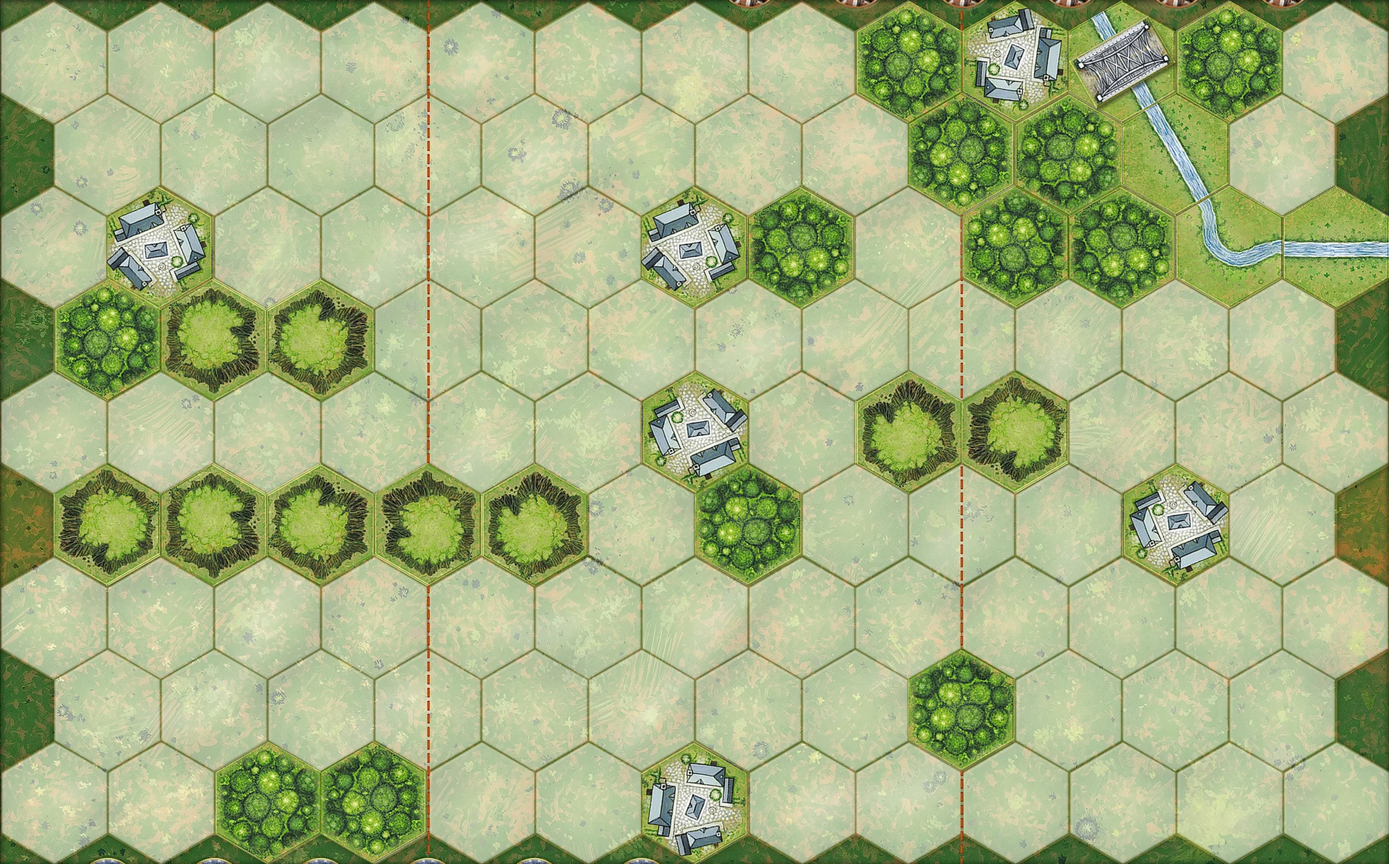
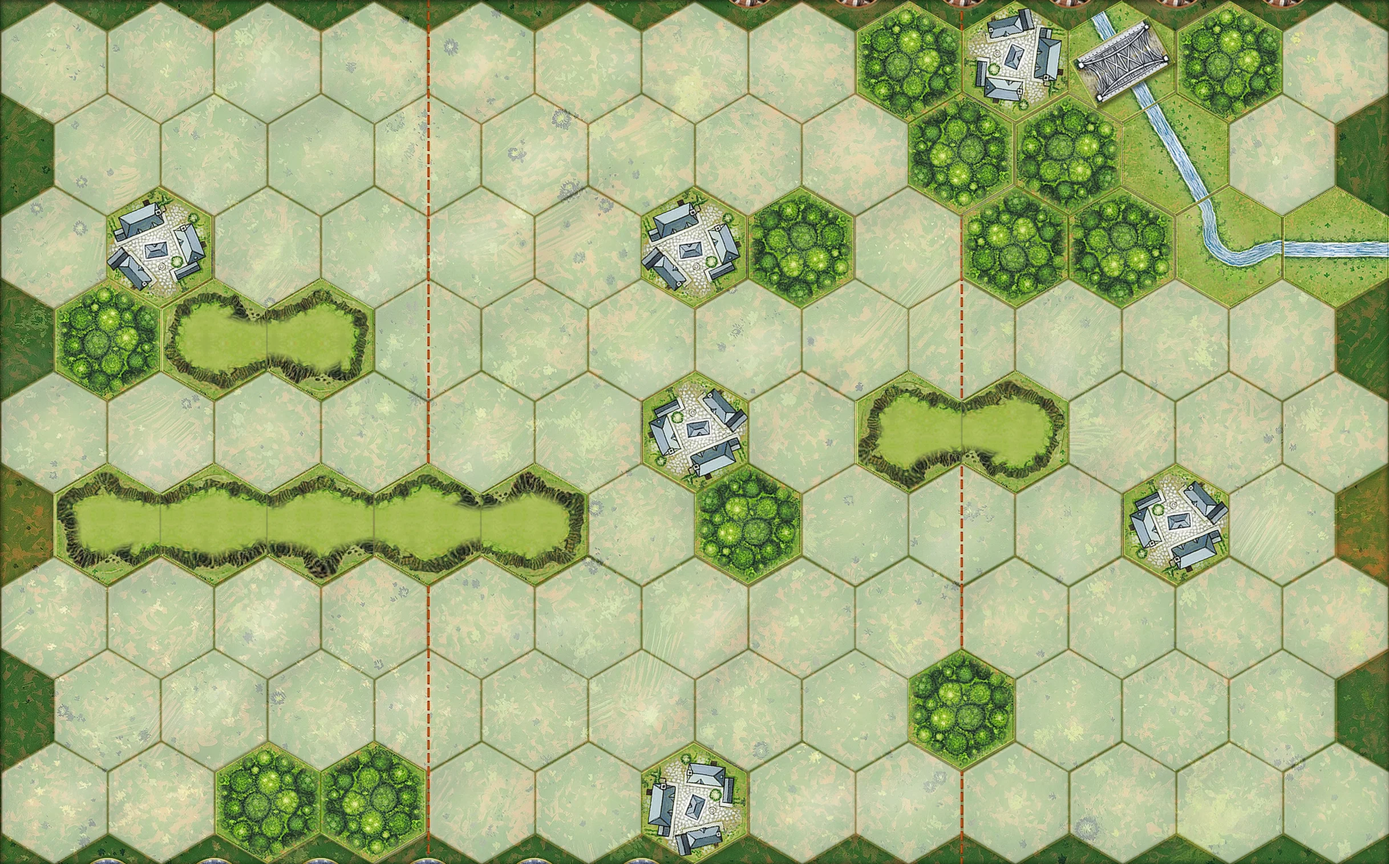
feat: join neighbouring hills into ridges on the board art
A hill next to another hill is now drawn from its tile as part of a
ridge: the plateau runs out through each shared edge (the lakes'
outline, now shoreCurves, with a wider neck), the tile's cliff ring is
unrolled along it, and the plateau and a grass texture are laid across
the board so they carry over the hex lines. The tile's bevel stays on
edges that don't join a hill; a faint hex line crosses the ridge. Lone
hills keep their tile, and a board can keep every hill separate with
"separateHills" in scripts/boards.json.

Arracourt's hills become a ridge of five and two pairs; the other
boards are unchanged, lakes included.

Changed region(s): [[0.0312, 0.5277, 0.437, 0.683], [0.0936, 0.3104, 0.2809, 0.4657], [0.593, 0.4346, 0.7803, 0.5898]]

diff --git a/CLAUDE.md b/CLAUDE.md
@@ -20,7 +20,7 @@ The app has to work in desktop browsers **and on Android tablets** (Chrome), in 
 Every push to `main` publishes to GitHub Pages at https://harman440.github.io/m44-sim/ (`.github/workflows/deploy.yml`: typecheck, tests, `vite build --base=/m44-sim/`). The tablet installs the app from there. Keep asset URLs relative to the base (import assets, or use `import.meta.env.BASE_URL`), never a hard-coded `/…` path, or they break under `/m44-sim/`.
 - `npm run card-art -- images/<name>.png [maxWidth]`: make a card painting, `src/assets/cards/<name>.webp`, from a large original PNG or JPEG; an image without transparency (any JPEG) has its drawn-in checkerboard background removed, or its white background faded out when its border is all white. The originals live in `images/` at the root, which git ignores
 - `npm run icons`: regenerate the app icon PNGs from `public/icons/icon.svg`
-- `npm run board [-- <part of a name>]`: build the scenarios' board art from their terrain, every board listed in `scripts/boards.json` (its terrain file in `src/data/boards/`, which `scenarios.ts` imports too, the image to write, and `drawn`: terrain to draw in code instead of painting it, `river` (with its bridges) or `hedgerow`). The base is the empty board (`scripts/board-art/empty-board.webp`, its grid measured at the top of the script) cropped to the edges of its hex grid, the box the app lays the image in, at its full size (2435×1514). Painted terrain comes from the tile library, `scripts/board-art/tiles/<terrain>/`: one hex per image, filling its width, at any resolution; each hex gets one of its terrain's tiles, turned 60° a random number of times (seeded by the hex). A river tile's name starts with the edges its river joins (0 = east, clockwise: `3-0.webp` runs west to east) and it's turned to join the river's edges; a painted bridge is a river tile with `board-art/pieces/bridge.webp` laid across it. Lakes, and drawn rivers, bridges and hedgerows, come from `scripts/terrain-tiles.mjs` (a river flowing through the edges it shares with the next river or bridge hexes, a lake joining its lake neighbours); the frame round the grid is put back over the new hexes. The barbed wire and sandbags pieces aren't part of the board art (they change in the game): they're `src/assets/pieces/*.webp`, drawn on the hex by `BarbedWireArt` and `SandbagsArt`, each image the hex's box with the piece where it sits
+- `npm run board [-- <part of a name>]`: build the scenarios' board art from their terrain, every board listed in `scripts/boards.json` (its terrain file in `src/data/boards/`, which `scenarios.ts` imports too, the image to write, `drawn`: terrain to draw in code instead of painting it, `river` (with its bridges) or `hedgerow`, and `separateHills`: each hill on its own tile instead of joined into ridges). The base is the empty board (`scripts/board-art/empty-board.webp`, its grid measured at the top of the script) cropped to the edges of its hex grid, the box the app lays the image in, at its full size (2435×1514). Painted terrain comes from the tile library, `scripts/board-art/tiles/<terrain>/`: one hex per image, filling its width, at any resolution; each hex gets one of its terrain's tiles, turned 60° a random number of times (seeded by the hex). A river tile's name starts with the edges its river joins (0 = east, clockwise: `3-0.webp` runs west to east) and it's turned to join the river's edges; a painted bridge is a river tile with `board-art/pieces/bridge.webp` laid across it. A hill next to another hill is joined to it into a ridge (`scripts/joined-hills.mjs`): the plateau runs out through each shared edge (the lakes' outline, `shoreCurves` in `terrain-tiles.mjs`, with a wider neck), the hill tile's cliff ring is unrolled along it, and the plateau and `board-art/textures/grass.webp` are laid across the whole board so they carry over the hex lines; a lone hill keeps its tile. Lakes, and drawn rivers, bridges and hedgerows, come from `scripts/terrain-tiles.mjs` (a river flowing through the edges it shares with the next river or bridge hexes, a lake joining its lake neighbours); the frame round the grid is put back over the new hexes. The barbed wire and sandbags pieces aren't part of the board art (they change in the game): they're `src/assets/pieces/*.webp`, drawn on the hex by `BarbedWireArt` and `SandbagsArt`, each image the hex's box with the piece where it sits
 
 ## Architecture
 - `src/game-core/`: plain TypeScript game logic with **no React imports**:
